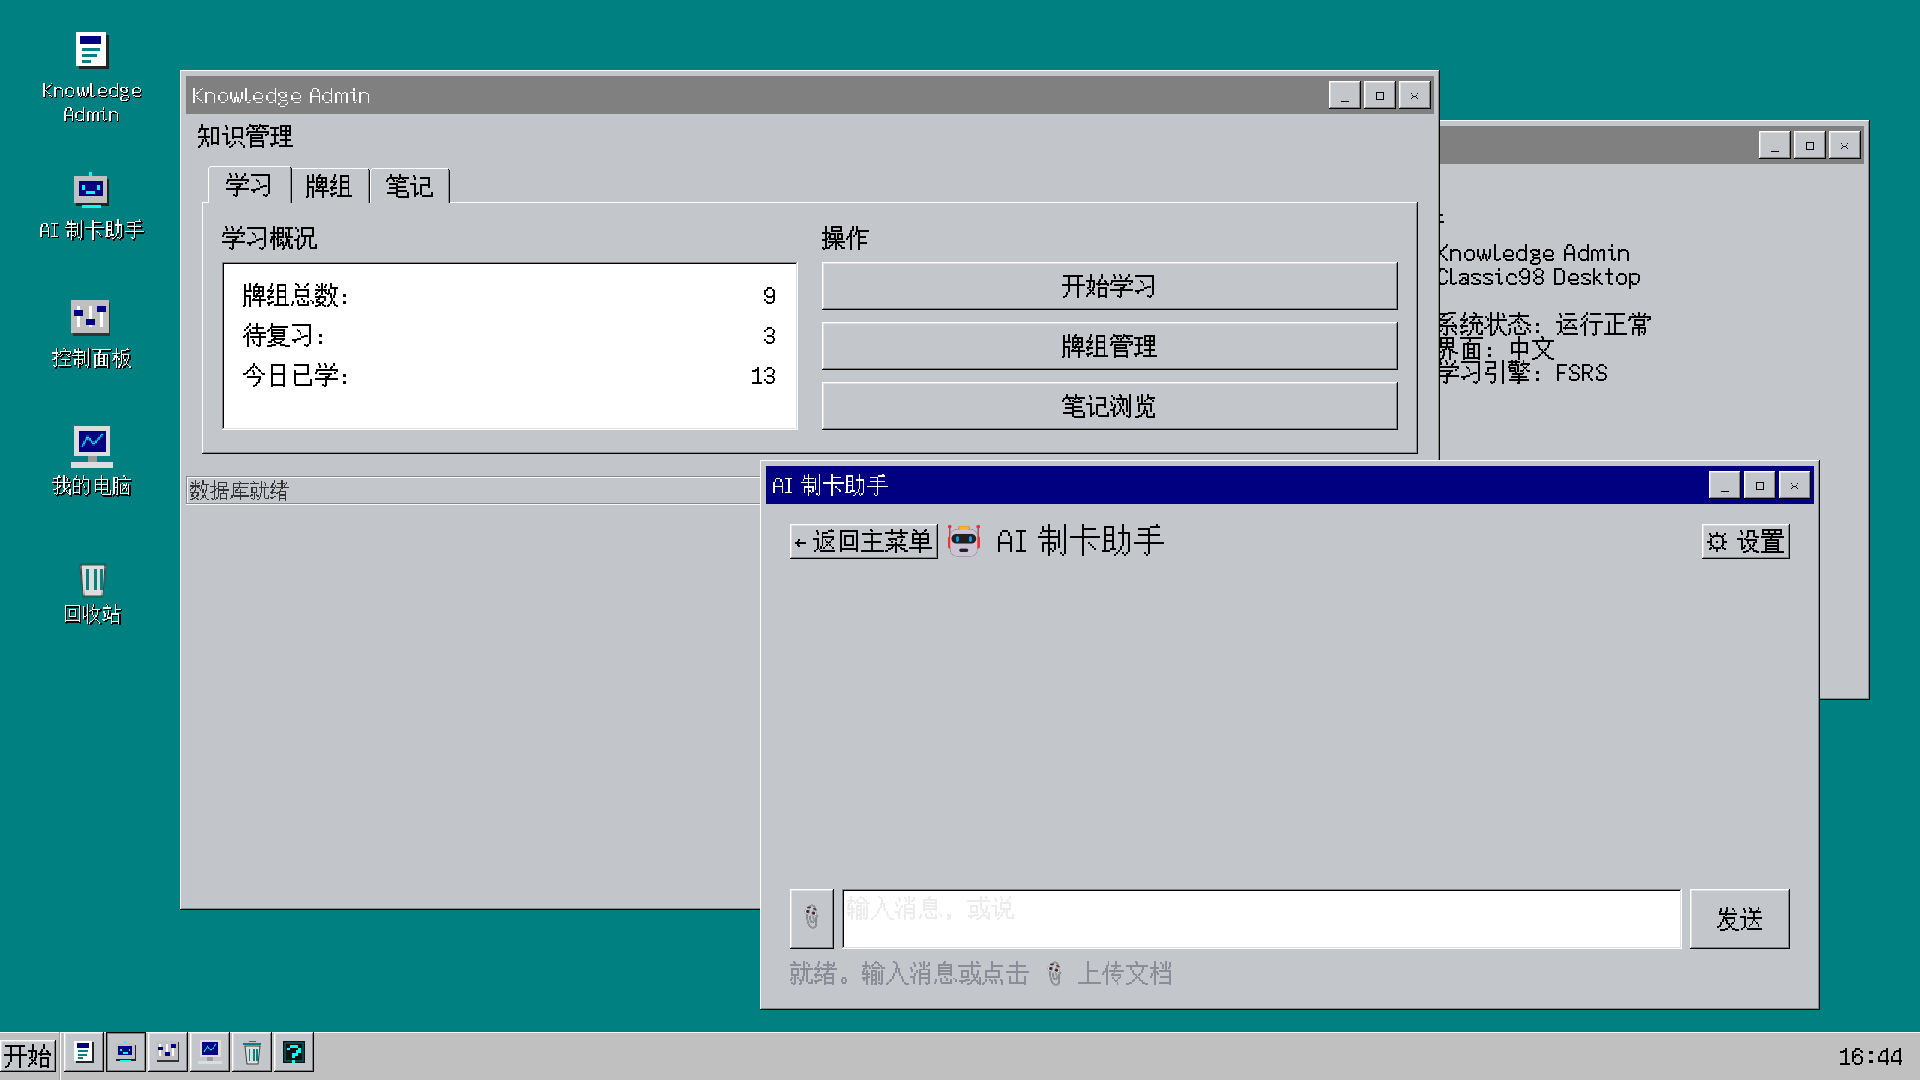
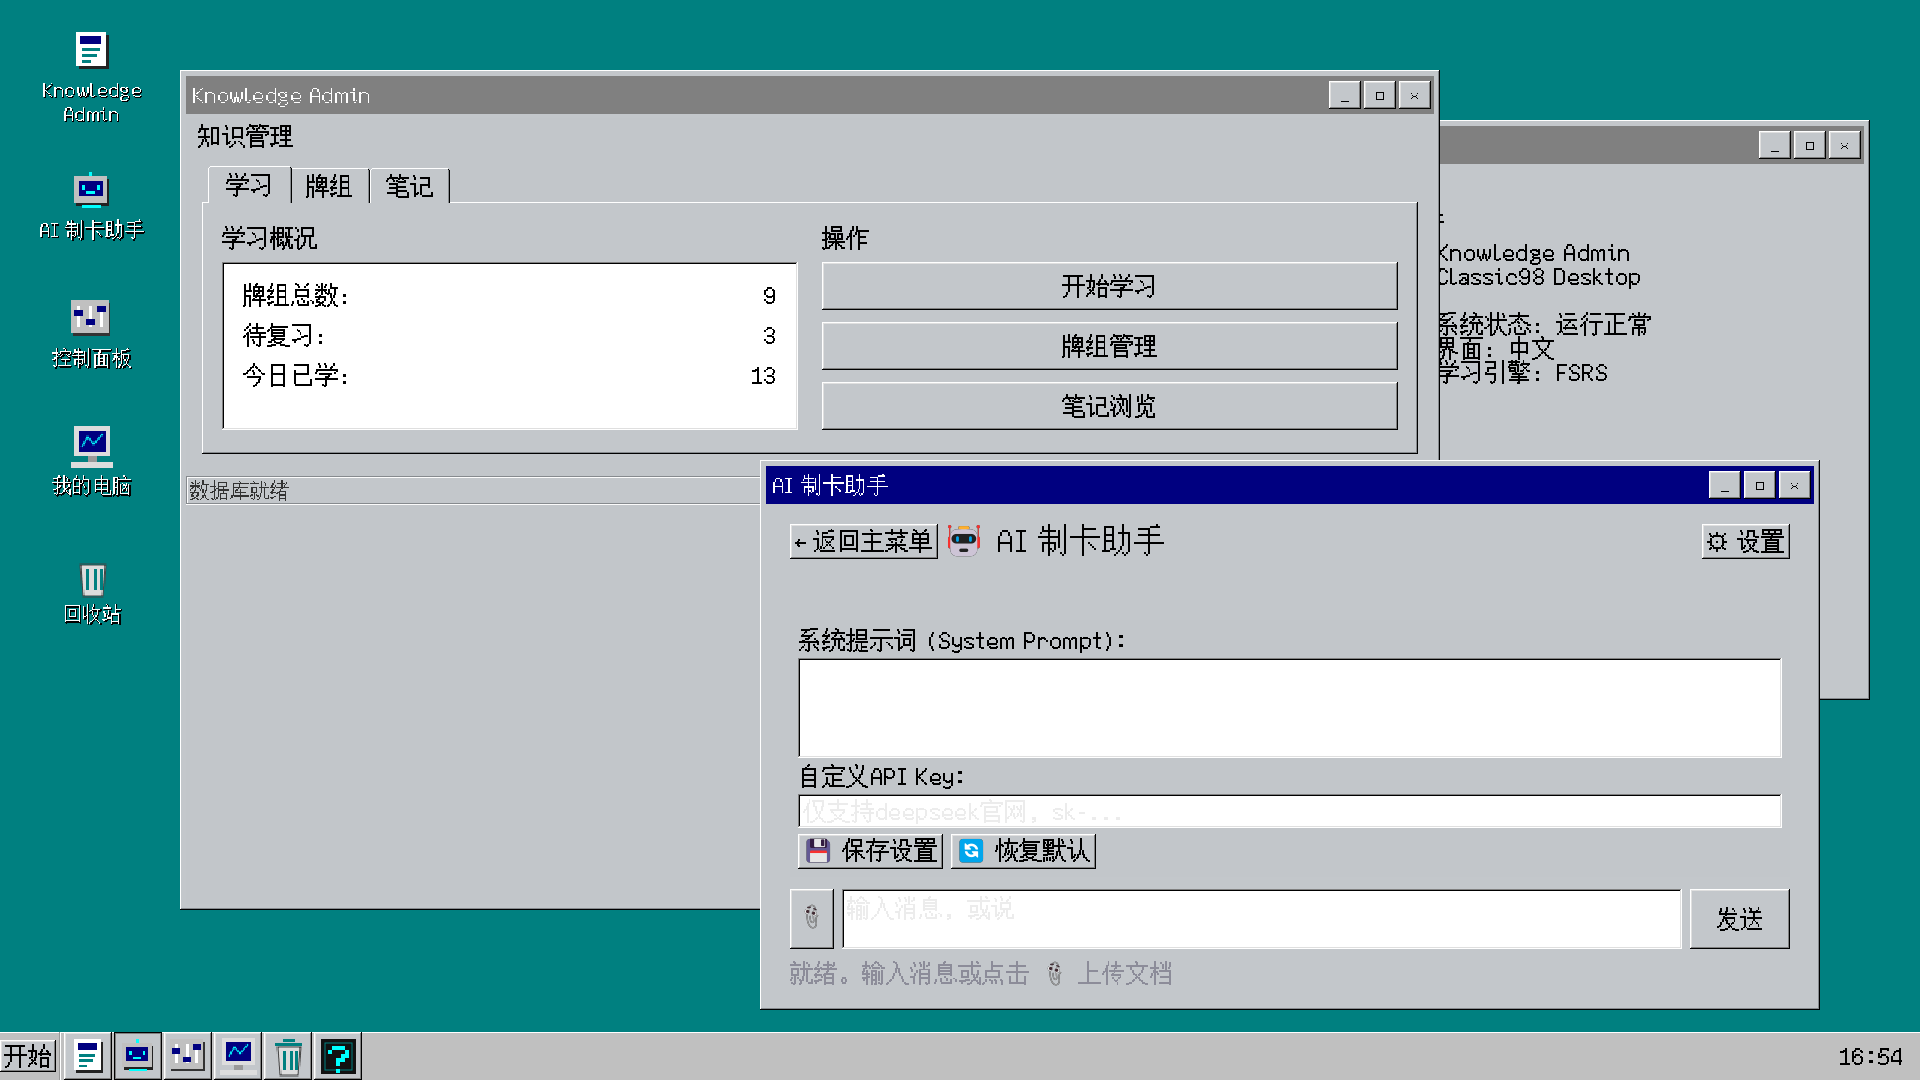
feat(desktop): 放大任务栏图标并填满可用高度（Codex / OpenAI）

Changed region(s): [[0.4062, 0.5806, 0.9375, 0.825], [0.0312, 0.9472, 0.1875, 1.0]]

diff --git a/docs/scenes/desktop.md b/docs/scenes/desktop.md
@@ -14,7 +14,7 @@ ManagedWindow 的标题栏、内容区、边框及八个缩放把手均保存在
 
 最小化保留页面实例。学习中关闭需确认并调用 end_session；正在执行导入事务时不允许关闭。关闭系统有确认和取消。
 
-任务栏的程序入口使用方形图标按钮，复用应用注册表中的图标，不显示程序名称文字。悬停提示和无障碍名称保留完整标题，当前应用保持按下高亮；点击仍然激活、最小化或恢复对应窗口。按钮与图标随字体倍率同步缩放，可在任务栏 Inspector 中调整 app_button_size 与 app_icon_size，按钮外观保存在 taskbar_app_button.tscn。
+任务栏的程序入口使用方形图标按钮，复用应用注册表中的图标，不显示程序名称文字。悬停提示和无障碍名称保留完整标题，当前应用保持按下高亮；点击仍然激活、最小化或恢复对应窗口。按钮填满任务栏可用高度并保持方形，图标占按钮边长的 90%，仅保留边框间隙；按钮基础边长为 40 像素，对应图标基准为 36 像素。字体倍率或任务栏高度变化时自动适配，在大字号切回小字号时也会缩回。可在任务栏 Inspector 中调整 app_button_size（基础最小边长）与 app_icon_size（对应基础图标边长），按钮外观保存在 taskbar_app_button.tscn。
 
 ## 页面接入
 

diff --git a/.learnings/2026-10-15-taskbar-icon-fill.md b/.learnings/2026-10-15-taskbar-icon-fill.md
@@ -1,0 +1,7 @@
+# 任务栏图标填充
+
+图标尺寸应参考任务栏容器实际可用高度，避免固定尺寸在较厚任务栏中显得偏小。按钮垂直填充，宽度跟随实际高度，图标保持约九成比例并为边框预留空间。
+
+ScrollContainer 的内容容器也需要设置垂直展开填充，否则容器仍按最小高度布局，按钮填充只会填到内容高度，无法填满整条任务栏。
+
+自动填充时只将基础尺寸作为最小高度，实际容器高度只用于按钮宽度和图标；不能将上一轮的实际高度反写为最小高度，否则从大字号切回小字号时任务栏无法缩回。
